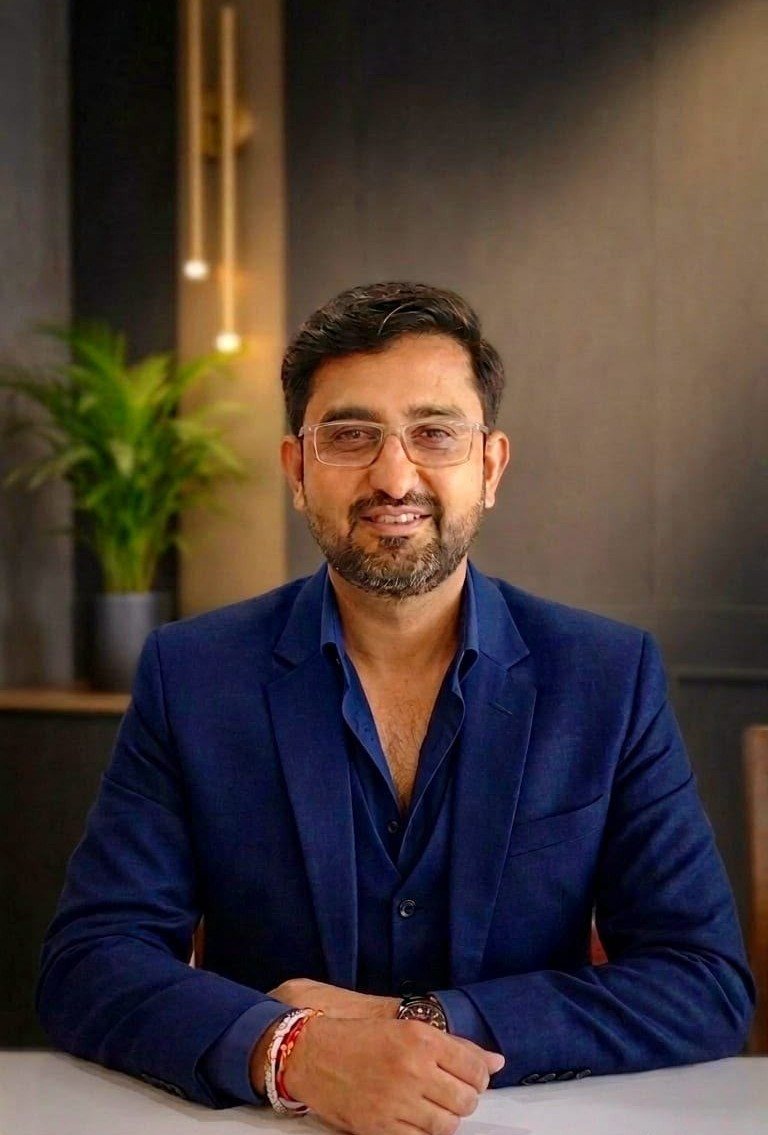
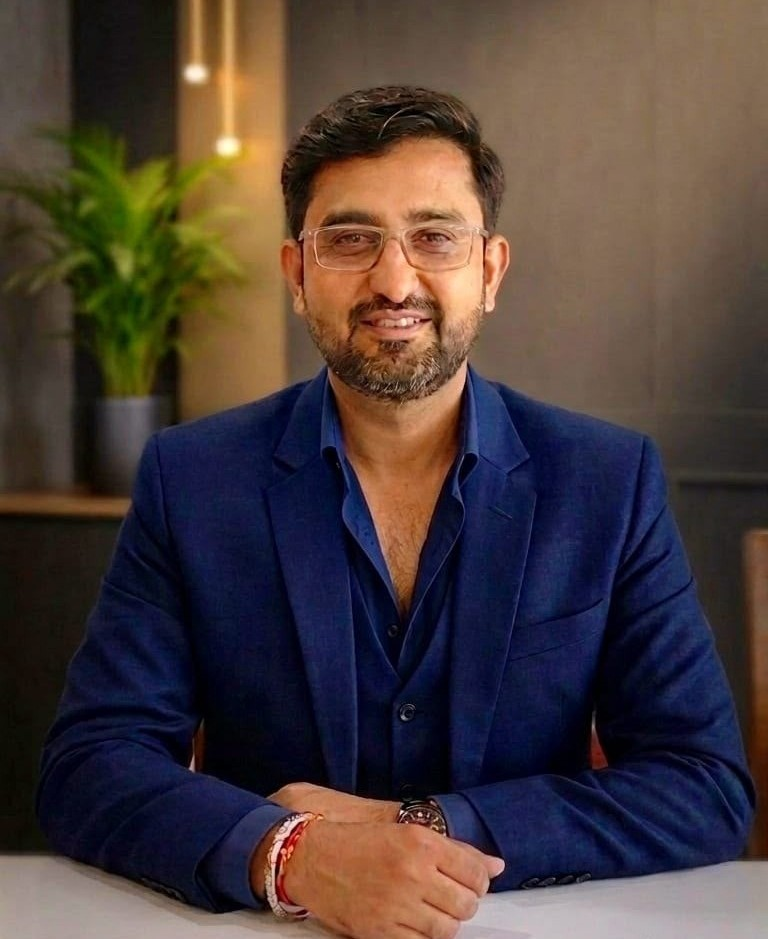
restored to prev design

diff --git a/src/components/AboutUs.tsx b/src/components/AboutUs.tsx
@@ -1,6 +1,6 @@
 import React, { useEffect, useRef } from 'react';
 import SectionReveal, { fadeLeft, scaleIn, staggerContainer, fadeUp } from './SectionReveal';
-import { Person1, Person2, Person3, Person4, Person5, Paper } from '../assets/index';
+import { Person1, Person2, Person3, Person4, Person5 } from '../assets/index';
 import { AnimatePresence, motion } from 'framer-motion';
 import { getCachedVideoUrl } from '../utils/videoCache';
 
@@ -114,11 +114,10 @@ const ABOUT_VIDEOS = [
 ];
 
 const AboutUs: React.FC = () => {
-  const [activeIndex, setActiveIndex] = React.useState(0);
-  const [isPaused, setIsPaused] = React.useState(false);
-  const cachedAboutRef = useRef<string[]>([]);
-  const videoRef = useRef<HTMLVideoElement>(null);
-  const activeMember = teamMembers[activeIndex];
+const [activeIndex, setActiveIndex] = React.useState(0);
+const [isPaused, setIsPaused] = React.useState(false);
+const cachedAboutRef = useRef<string[]>([]);
+const videoRef = useRef<HTMLVideoElement>(null);
 
 React.useEffect(() => {
   if (isPaused) return;
@@ -234,211 +233,151 @@ const handleVideoEnded = (e: React.SyntheticEvent<HTMLVideoElement>) => {
 
           {/* ── Leadership team ── */}
           <motion.div
-            className="mt-20 sm:mt-28 pb-24"
-            initial="hidden"
-            whileInView="visible"
-            viewport={{ once: true }}
-          >
-            <div className="mb-10 sm:mb-14">
-              <h2 className="text-brand-saffron text-[10px] sm:text-xs tracking-[0.3em] uppercase font-bold mb-3 sm:mb-4">
-                Leadership Team
-              </h2>
-              <h3 className="text-3xl sm:text-4xl font-light text-white">
-                The People Behind
-                <span className="block font-bold text-white">AlphaMatrix</span>
-              </h3>
-            </div>
+  className="mt-20 sm:mt-28 pb-24"
+  initial="hidden"
+  whileInView="visible"
+  viewport={{ once: true }}
+>
+  <div className="mb-8 sm:mb-12">
+    <h2 className="text-brand-saffron text-[10px] sm:text-xs tracking-[0.3em] uppercase font-bold mb-3 sm:mb-4">
+      Leadership Team
+    </h2>
+    <h3 className="text-3xl sm:text-4xl font-light text-white">
+      The People Behind
+      <span className="block font-bold text-white">AlphaMatrix</span>
+    </h3>
+  </div>
 
-            {/* Featured profile + selector — scales cleanly for 5 members */}
-            <div
-              className="rounded-2xl sm:rounded-[28px] overflow-hidden"
-              style={{
-                border: '1px solid rgba(255,255,255,0.08)',
-                background: 'linear-gradient(165deg, rgba(255,255,255,0.04) 0%, rgba(255,255,255,0.015) 100%)',
-                boxShadow: '0 24px 64px rgba(0,0,0,0.35)',
-              }}
-              onMouseEnter={() => setIsPaused(true)}
-              onMouseLeave={() => setIsPaused(false)}
+  {/* Cards */}
+  <div className="flex flex-col lg:flex-row gap-3 sm:gap-4">
+    {teamMembers.map((member, index) => {
+      const isActive = activeIndex === index;
+      return (
+        <motion.div
+          key={member.name}
+          layout
+          transition={{ duration: 0.8, ease: [0.22, 1, 0.36, 1] }}
+          animate={{ flex: isActive ? 4 : 1 }}
+          className="relative overflow-hidden rounded-2xl sm:rounded-[28px] h-[420px] sm:h-[500px] lg:h-[560px] cursor-pointer"
+          style={{ border: '1px solid rgba(255,255,255,0.07)' }}
+          onClick={() => {
+            setActiveIndex(index);
+            setIsPaused(true);       // click → lock open
+          }}
+          onMouseEnter={() => {
+            setActiveIndex(index);
+            setIsPaused(true);       // hover in → lock open
+          }}
+          onMouseLeave={() => {
+            setIsPaused(false);      // hover out → resume auto-loop
+          }}
+        >
+          <div className="h-full flex flex-col lg:flex-row overflow-hidden">
+
+            {/* Image panel */}
+            <motion.div
+              layout
+              className="relative h-[200px] sm:h-[240px] lg:h-auto lg:w-[260px] xl:w-[300px] shrink-0 overflow-hidden"
             >
-              {/* Featured member panel */}
-              <div className="grid grid-cols-1 lg:grid-cols-12 min-h-[420px] sm:min-h-[480px]">
-                {/* Portrait */}
-                <div className="relative lg:col-span-5 h-[280px] sm:h-[340px] lg:h-auto overflow-hidden">
-                  <AnimatePresence mode="wait">
-                    <motion.img
-                      key={activeMember.name}
-                      src={activeMember.image}
-                      alt={activeMember.name}
-                      initial={{ opacity: 0, scale: 1.06 }}
-                      animate={{ opacity: 1, scale: 1 }}
-                      exit={{ opacity: 0, scale: 0.98 }}
-                      transition={{ duration: 0.5, ease: [0.22, 1, 0.36, 1] }}
-                      className="absolute inset-0 w-full h-full object-cover object-top"
-                    />
-                  </AnimatePresence>
-                  <div className="absolute inset-0 bg-linear-to-t from-black/70 via-black/10 to-transparent lg:bg-linear-to-r lg:from-transparent lg:via-transparent lg:to-black/40" />
-                  <div className="absolute inset-0 ring-1 ring-inset ring-white/10" />
+              <img
+                src={member.image}
+                alt={member.name}
+                className={`absolute inset-0 w-full h-full object-cover transition-all duration-700 ${isActive ? 'saturate-100 scale-100' : 'saturate-0 scale-105'}`}
+              />
+              <div className="absolute inset-0 bg-linear-to-t from-black/80 via-black/20 to-transparent" />
 
-                  {/* Mobile name overlay on photo */}
-                  <div className="absolute bottom-0 left-0 right-0 p-5 lg:hidden">
-                    <p className="text-[10px] tracking-[0.2em] uppercase text-brand-saffron font-bold mb-1">
-                      {activeMember.role}
-                    </p>
-                    <h4 className="text-white text-xl font-bold leading-tight">
-                      {activeMember.name}
-                    </h4>
-                  </div>
-                </div>
+              {/* Name overlay */}
+              <div className="absolute bottom-0 left-0 right-0 p-4 sm:p-5">
+                <h4 className="text-white text-base sm:text-lg font-bold leading-tight drop-shadow-lg">
+                  {member.name}
+                </h4>
+              </div>
 
-                {/* Bio content */}
-                <div
-                  className="lg:col-span-7 relative flex flex-col justify-center p-6 sm:p-8 lg:p-10 xl:p-12 overflow-hidden"
+              
+            </motion.div>
+
+            {/* Expanded content panel */}
+            <AnimatePresence mode="wait">
+              {isActive && (
+                <motion.div
+                  key="content"
+                  initial={{ opacity: 0, x: 32 }}
+                  animate={{ opacity: 1, x: 0 }}
+                  exit={{ opacity: 0, x: -20 }}
+                  transition={{ duration: 0.4, ease: [0.22, 1, 0.36, 1] }}
+                  className="flex-1 overflow-y-auto"
                   style={{
-                    backgroundImage: `url(${Paper})`,
-                    backgroundSize: 'cover',
-                    backgroundPosition: 'center',
+                    background: 'linear-gradient(160deg, #faf9f7 0%, #f3f1ee 100%)',
+                    borderLeft: '1px solid rgba(0,0,0,0.05)',
                   }}
                 >
-                  <AnimatePresence mode="wait">
-                    <motion.div
-                      key={activeMember.name}
-                      initial={{ opacity: 0, y: 16 }}
-                      animate={{ opacity: 1, y: 0 }}
-                      exit={{ opacity: 0, y: -12 }}
-                      transition={{ duration: 0.4, ease: [0.22, 1, 0.36, 1] }}
-                      className="relative z-10"
-                    >
-                      {/* Role pill — desktop */}
-                      <div className="hidden lg:block mb-4">
-                        <span
-                          className="inline-block text-[9px] sm:text-[10px] font-black uppercase tracking-[0.18em] px-3 py-1.5 rounded-sm"
-                          style={{ background: '#111', color: '#fff', letterSpacing: '0.18em' }}
-                        >
-                          {activeMember.role}
-                        </span>
-                      </div>
+                  <div className="p-5 sm:p-7 lg:p-8">
 
-                      {/* Name — desktop */}
-                      <h4
-                        className="hidden lg:block font-black leading-tight mb-3 text-brand-saffron"
-                        style={{ fontSize: 'clamp(1.5rem, 2.5vw, 2.15rem)', fontFamily: 'Georgia, serif' }}
+                    {/* Role pill */}
+                    <div className="mb-3">
+                      <span
+                        className="inline-block text-[9px] sm:text-[10px] font-black uppercase tracking-[0.2em] px-3 py-1.5 rounded-sm"
+                        style={{ background: '#111', color: '#fff', letterSpacing: '0.18em' }}
                       >
-                        {activeMember.name}
-                      </h4>
+                        {member.role}
+                      </span>
+                    </div>
 
-                      {/* Quote */}
-                      <div className="flex gap-3 items-start mb-6 sm:mb-7">
-                        <div className="w-0.5 min-h-full bg-brand-saffron rounded-full shrink-0 self-stretch" />
-                        <p
-                          className="text-brand-saffron text-sm sm:text-base leading-relaxed"
-                          style={{ fontFamily: 'Georgia, serif', fontStyle: 'italic' }}
-                        >
-                          &ldquo;{activeMember.quote}&rdquo;
-                        </p>
-                      </div>
+                    {/* Name */}
+                    <h4
+                      className="font-black leading-tight mb-2 text-brand-saffron"
+                      style={{ fontSize: 'clamp(1.4rem, 3vw, 2rem)', fontFamily: 'Georgia, serif' }}
+                    >
+                      {member.name}
+                    </h4>
 
-                      <div className="w-10 h-0.5 bg-brand-saffron/40 mb-5 sm:mb-6" />
+                    {/* Divider */}
+                    <div className="w-10 h-0.5 bg-brand-saffron/40 mb-5" />
 
-                      {/* Headings */}
-                      <div className="space-y-4 sm:space-y-5">
-                        {activeMember.headings.map((item, idx) => (
-                          <div key={item.title} className="flex gap-3">
-                            <span className="mt-0.5 text-brand-saffron text-[10px] font-bold tracking-wider shrink-0 w-4">
-                              {String(idx + 1).padStart(2, '0')}
-                            </span>
-                            <div>
-                              <h5 className="text-gray-900 text-sm sm:text-[15px] font-semibold mb-1 leading-snug">
-                                {item.title}
-                              </h5>
+                    {/* Content items */}
+                    <div className="space-y-3 sm:space-y-4 mb-5">
+                      {member.headings.map((item, idx) => (
+                        <div key={item.title}>
+                          {idx === 0 ? (
+                            <p className="text-gray-700 text-xs sm:text-sm leading-relaxed">
+                              {item.text}
+                            </p>
+                          ) : (
+                            <div className="flex gap-2.5">
+                              <div className="mt-1.5 w-1 h-1 rounded-full bg-brand-saffron shrink-0" />
                               <p className="text-gray-600 text-xs sm:text-sm leading-relaxed">
+                                <span className="font-semibold text-gray-800">{item.title}. </span>
                                 {item.text}
                               </p>
                             </div>
-                          </div>
-                        ))}
-                      </div>
-                    </motion.div>
-                  </AnimatePresence>
-                </div>
-              </div>
+                          )}
+                        </div>
+                      ))}
+                    </div>
 
-              {/* Member selector strip */}
-              <div
-                className="border-t border-white/8 px-3 sm:px-5 py-4 sm:py-5"
-                style={{ background: 'rgba(0,0,0,0.25)' }}
-              >
-                <div className="flex items-stretch justify-between gap-1 sm:gap-2">
-                  {teamMembers.map((member, index) => {
-                    const isActive = activeIndex === index;
-                    return (
-                      <button
-                        key={member.name}
-                        type="button"
-                        onClick={() => setActiveIndex(index)}
-                        className={`group relative flex-1 flex flex-col items-center gap-2 sm:gap-2.5 rounded-xl sm:rounded-2xl px-1 sm:px-2 py-2 sm:py-3 transition-all duration-300 cursor-pointer ${
-                          isActive
-                            ? 'bg-white/8'
-                            : 'hover:bg-white/4'
-                        }`}
-                        aria-label={`View ${member.name}`}
-                        aria-pressed={isActive}
-                      >
-                        <div
-                          className={`relative w-11 h-11 sm:w-14 sm:h-14 md:w-16 md:h-16 rounded-full overflow-hidden transition-all duration-300 ${
-                            isActive
-                              ? 'ring-2 ring-brand-saffron ring-offset-2 ring-offset-[#0a0605] scale-105'
-                              : 'ring-1 ring-white/15 opacity-100 group-hover:opacity-100 group-hover:ring-white/30'
-                          }`}
+                    {/* Blockquote */}
+                    <div className="mt-2 pt-4" style={{ borderTop: '1px solid rgba(0,0,0,0.08)' }}>
+                      <div className="flex gap-3 items-start">
+                        <div className="w-0.5 min-h-6 bg-brand-saffron rounded-full shrink-0 self-stretch" />
+                        <p
+                          className="text-brand-saffron text-xs sm:text-sm leading-relaxed"
+                          style={{ fontFamily: 'Georgia, serif', fontStyle: 'italic' }}
                         >
-                          <img
-                            src={member.image}
-                            alt=""
-                            className={`w-full h-full object-cover object-top transition-all duration-500 ${
-                              isActive ? 'saturate-100' : 'saturate-100 group-hover:saturate-100'
-                            }`}
-                          />
-                        </div>
+                          "{member.quote}"
+                        </p>
+                      </div>
+                    </div>
 
-                        <div className="text-center min-w-0 w-full">
-                          <p
-                            className={`text-[9px] sm:text-[11px] md:text-xs font-semibold leading-tight truncate transition-colors duration-300 ${
-                              isActive ? 'text-white' : 'text-white group-hover:text-white'
-                            }`}
-                          >
-                            {member.name.split(' ')[0]}
-                          </p>
-                          <p
-                            className={`hidden sm:block text-[8px] md:text-[9px] tracking-wide uppercase mt-0.5 truncate transition-colors duration-300 ${
-                              isActive ? 'text-brand-saffron/80' : 'text-white/80'
-                            }`}
-                          >
-                            {member.role.split(/[—,&]/)[0].trim()}
-                          </p>
-                        </div>
-
-                        {/* Active progress bar (auto-rotate indicator) */}
-                        {isActive && (
-                          <span className="absolute bottom-0 left-3 right-3 h-0.5 rounded-full overflow-hidden bg-white/10">
-                            <motion.span
-                              key={`progress-${index}-${isPaused}`}
-                              className="block h-full bg-brand-saffron origin-left"
-                              initial={{ scaleX: 0 }}
-                              animate={{ scaleX: isPaused ? 0 : 1 }}
-                              transition={
-                                isPaused
-                                  ? { duration: 0 }
-                                  : { duration: 5, ease: 'linear' }
-                              }
-                            />
-                          </span>
-                        )}
-                      </button>
-                    );
-                  })}
-                </div>
-              </div>
-            </div>
-          </motion.div>
+                  </div>
+                </motion.div>
+              )}
+            </AnimatePresence>
+          </div>
+        </motion.div>
+      );
+    })}
+  </div>
+</motion.div>
         </div>
 
         {/* ── Bottom wave ── */}
